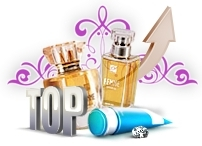
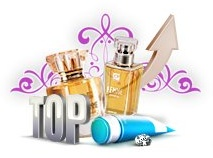
Added => "Our best sellers" part 1.1

diff --git a/app/assets/stylesheets/welcome.css.scss b/app/assets/stylesheets/welcome.css.scss
@@ -27,24 +27,35 @@
 }
 
 #top_list {
-	width: 750px;
-	
-	background: url(top_list.png) 40% 0 no-repeat;
-																																		margin: 25px 0 200px 10px;
+		width: 750px;
+		background: url(top_list.png) 40% 0 no-repeat;
+		margin: 25px 0 0 10px;
 
 	#top_icon {
-		#top_icon_img {
-			margin: 40px 25px 0 10px;
-			float: left;
-		}
+		width: 750px;
+		height: 40px;
+	}
 
-		#wrap {
-			padding-top: 40px;
-			
-			#slider {
-				li {
-					float: left;
-					width: 140px;
+	#top_icon_img {
+		margin: 40px 25px 0 10px;
+		float: left;
+		width: 150px;
+		height: 140px;
+	}
+
+	#wrap {
+
+		border: 1px solid red;
+		float: left;
+		
+		#slider {
+			li {
+				float: left;
+				width: 115px;
+				margin: 0 5px 0 5px;
+				
+				img {
+					width: 115px;
 				}
 			}
 		}
